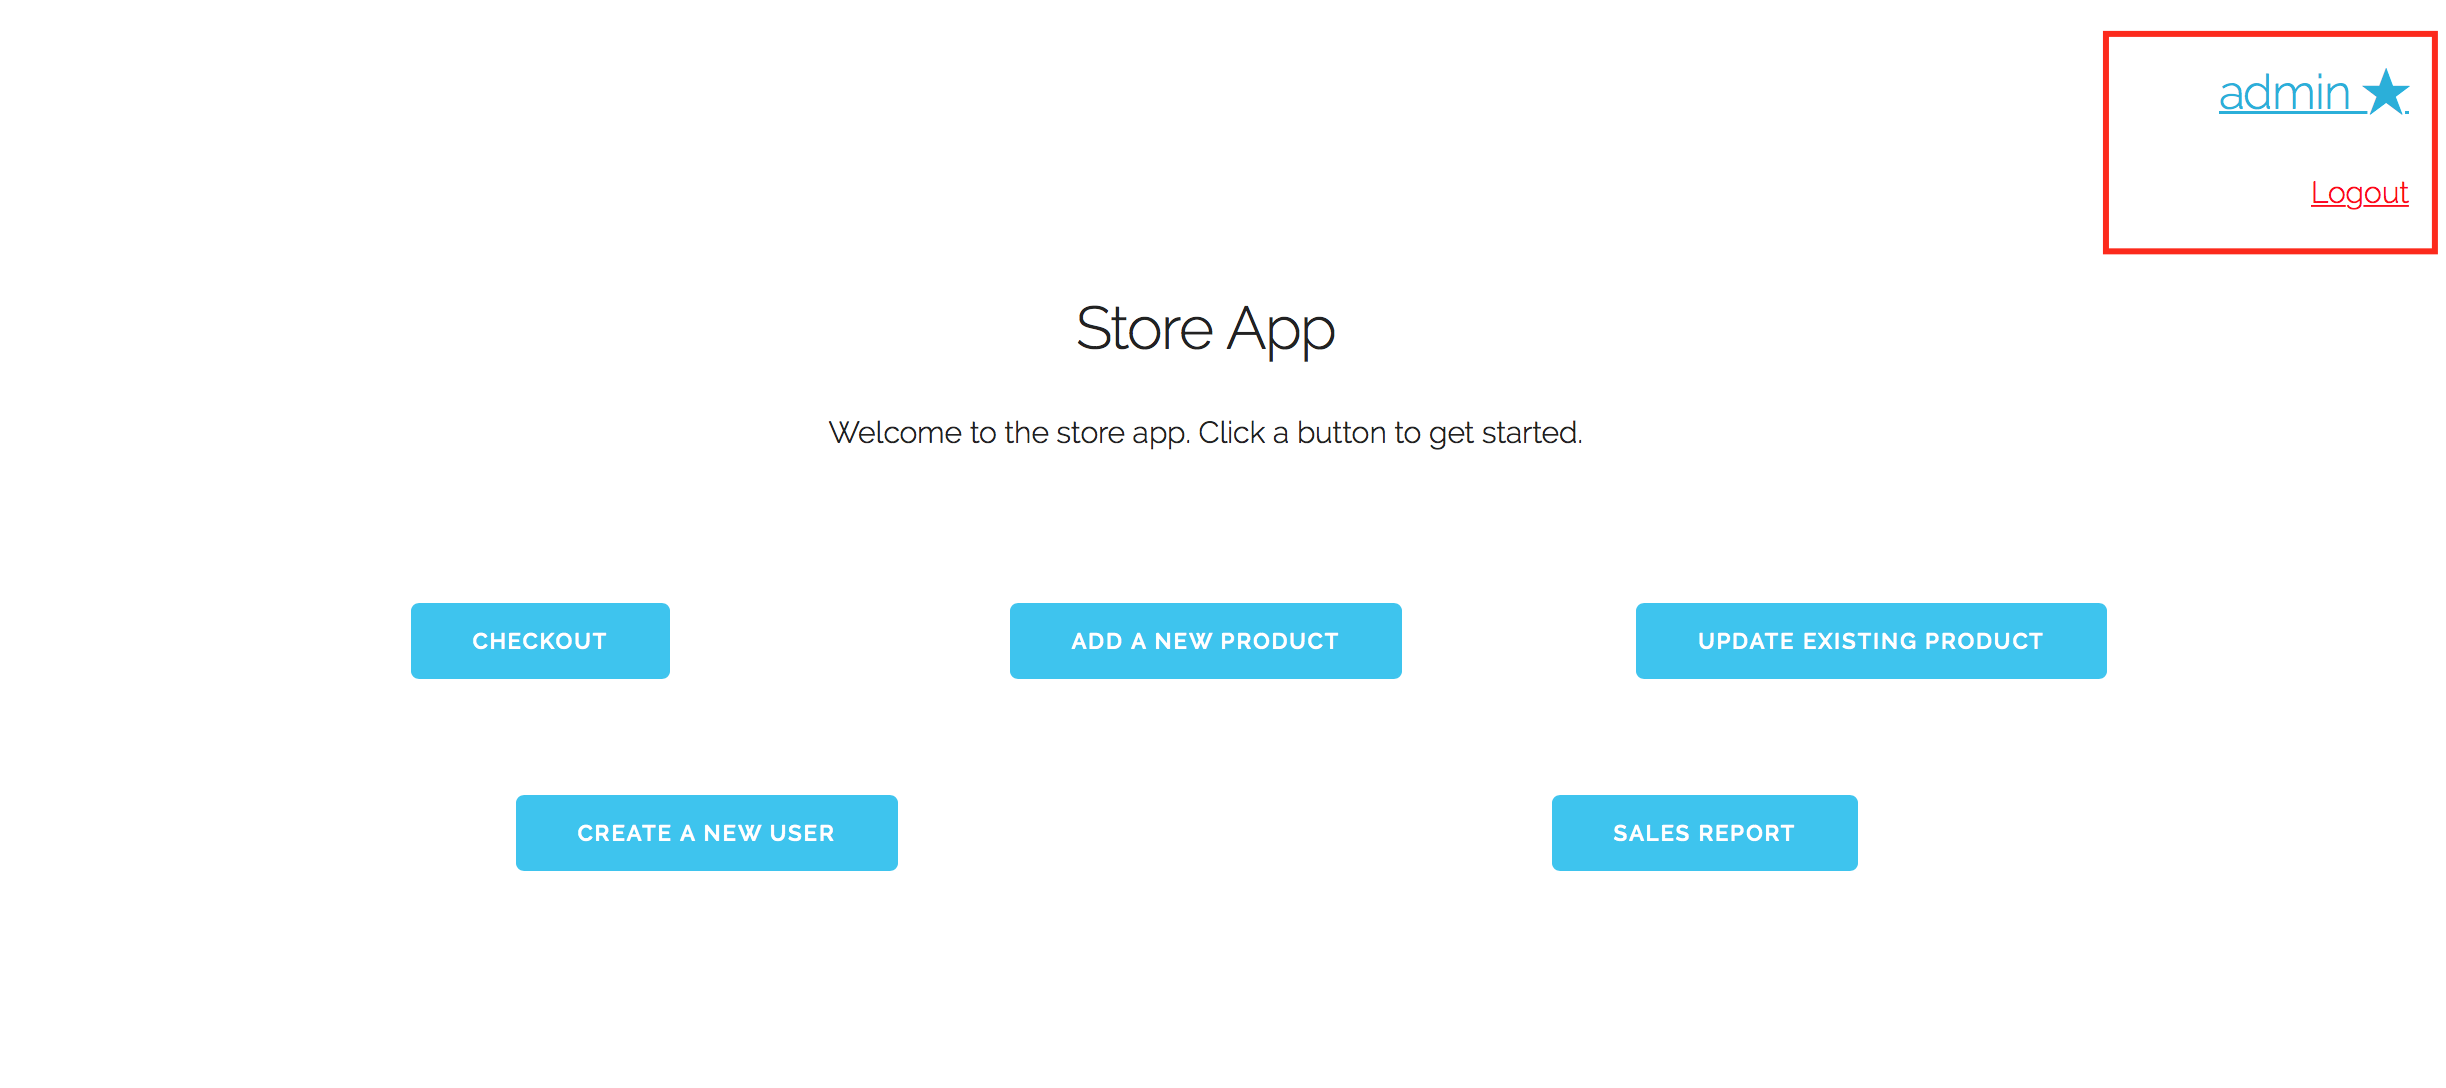
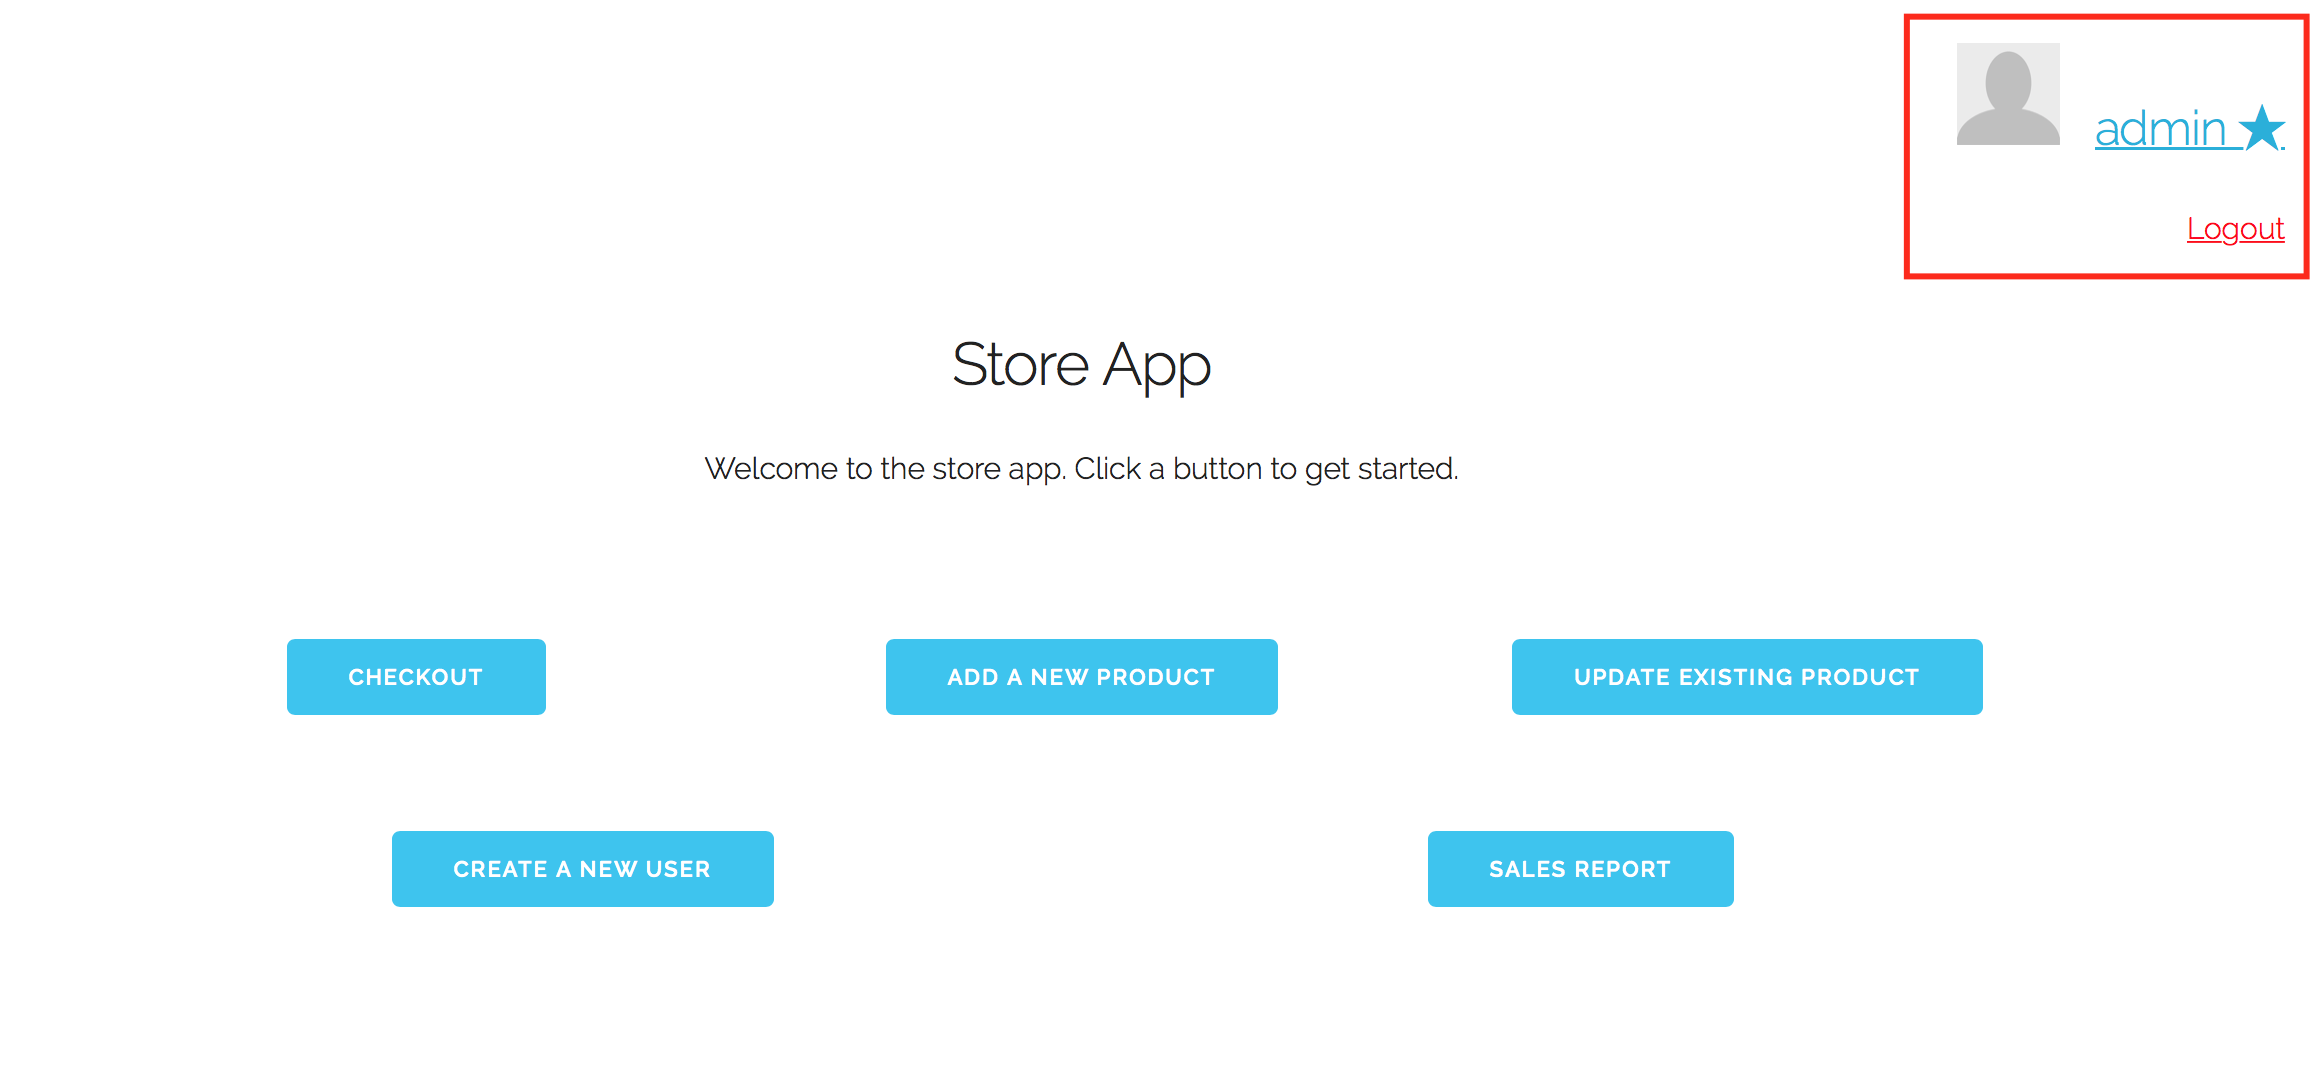
screenshots and frontend stuff

diff --git a/screenshots/Iteration 2/usecase3.md b/screenshots/Iteration 2/usecase3.md
@@ -1,0 +1,23 @@
+# Use Case 3: Change profile picture
+
+Assume we are already logged in to the 'admin' account, which is a manager.
+
+First, we click on our blue username at the top right of the home screen
+
+![see usecase1_c.png](usecase1_c.png)
+
+Now we scroll down on the page until we see "Change Profile Picture"
+
+![see usecase3_b.png](usecase3_b.png)
+
+Now we click on "choose file" to select a new image, and a selection window opens.
+
+![see usecase3_c.png](usecase3_c.png)
+
+We select the desired image, and click "Update Picture"
+
+![see usecase3_d.png](usecase3_d.png)
+
+Now we can see that our action was successful, and we have a new profile picture
+
+![see usecase3_e.png](usecase3_e.png)
